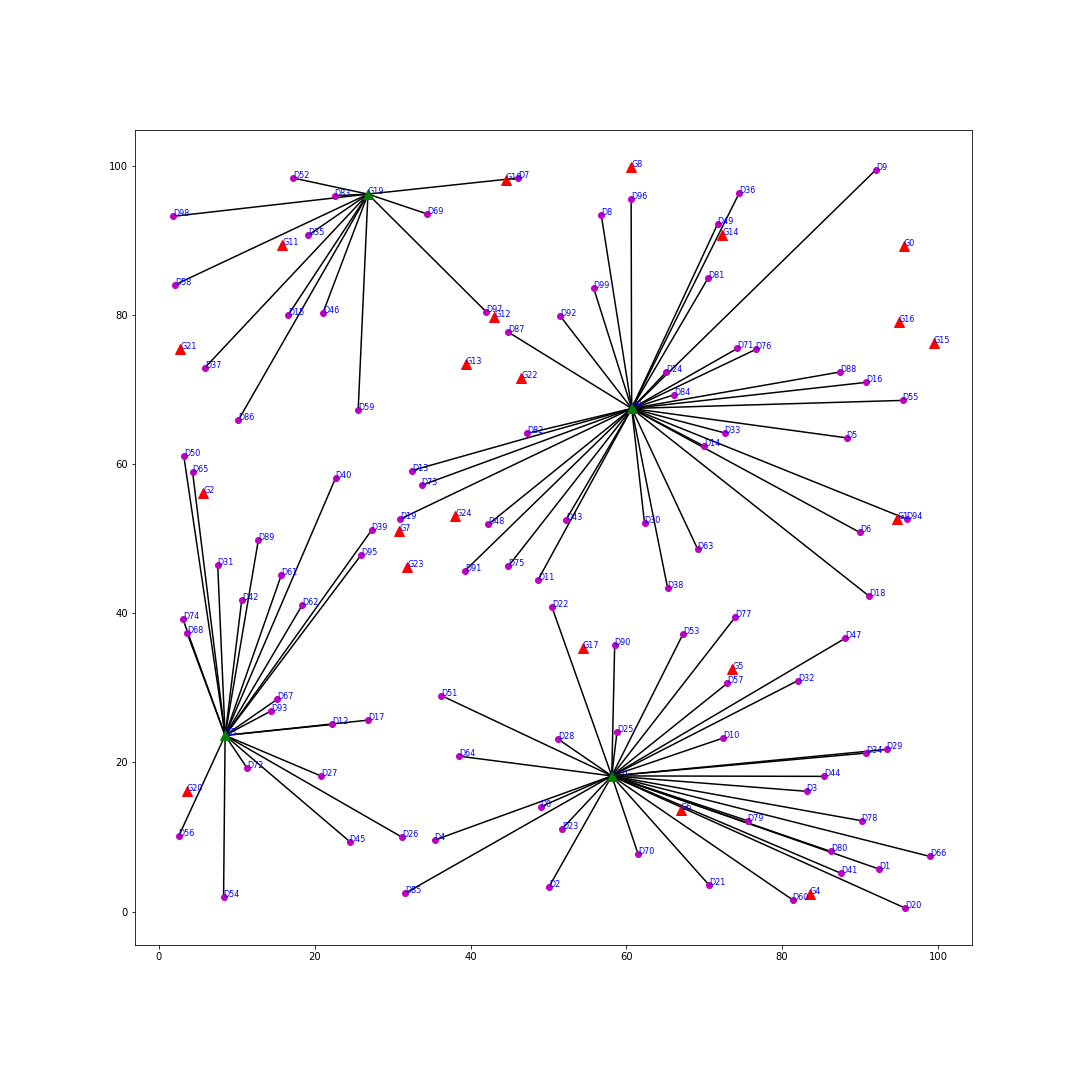
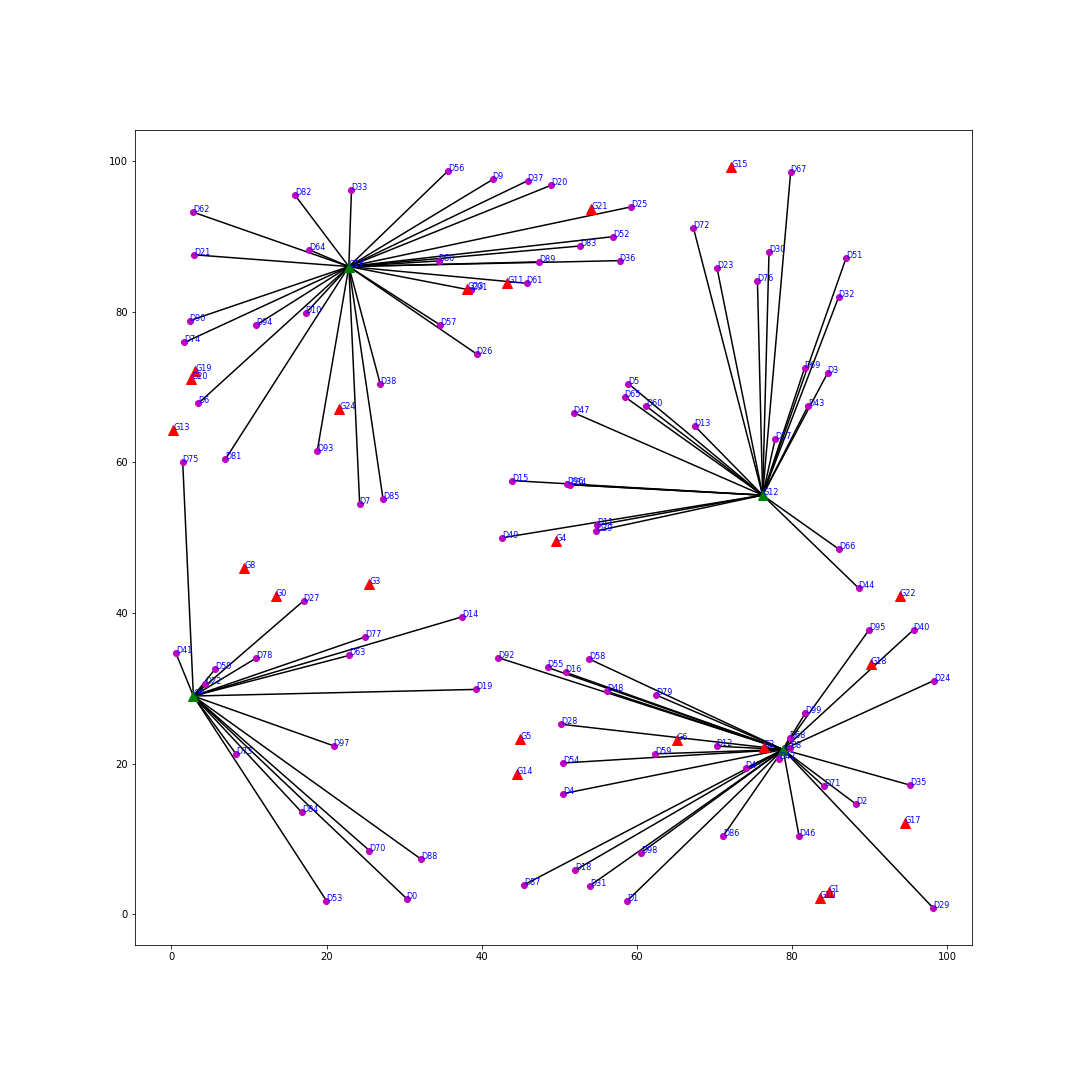
Algo final

diff --git a/TP2/local-search/solve with better print.py b/TP2/local-search/solve with better print.py
@@ -1,4 +1,5 @@
 import random
+import time
 from generator_problem import GeneratorProblem
 
 class Solve:
@@ -39,6 +40,10 @@ class Solve:
         print("[SOLUTION-COST]", total_cost)
         
     def solve_genetic(self):
+
+        print("Solve with a genetic algorithm")
+        print("The devices are associated to the closest generator", "\n")
+        tps1 = time.time()
         
         ### Declaration de constante
         pop_size = 50
@@ -48,10 +53,20 @@ class Solve:
         
         ### Initailisation de la population
         list_of_good_solutions = init_population(pop_size, self, proportion_retenue, nb_solution_gardée)
+        tps5 = time.time()
+        print("TEMPS ITERATION i = 0 : ", round(tps5 - tps1, 2), "\n")
         
         ### Evolution de la polulation
+        first_best_gen = 0
         for i in range(0, nb_generation_max):
+            old_solution_cost = list_of_good_solutions[0][1]
             list_of_good_solutions = next_generation(list_of_good_solutions, pop_size, nb_solution_gardée, self) 
+            if (old_solution_cost > list_of_good_solutions[0][1]):
+                first_best_gen = i+1
+            tps4 = time.time()
+            print("Best Solution :", list_of_good_solutions[0])
+            print("First generation with solution :", first_best_gen)
+            print("TEMPS ITERATION i =", i+1," : ", round(tps4 - tps1, 2), "\n")
         
         ### Association des machines aux générateurs pour la meilleur solution
         solution = list_of_good_solutions[0][0]
@@ -67,6 +82,8 @@ class Solve:
         
         ### Affichage de la meilleur solution
         self.instance.plot_solution(assigned_generators, solution)
+        tps2 = time.time()
+        print("TEMPS D'EXECUTION : ", round(tps2 - tps1, 2), "\n")
         print("[ASSIGNED-GENERATOR]", assigned_generators)
         print("[OPENED-GENERATOR]", solution)
         print("[SOLUTION-COST]", total_cost)

diff --git a/TP2/local-search/test betavariate.py b/TP2/local-search/test betavariate.py
@@ -1,11 +1,14 @@
 # import the required libraries 
 import random 
+import numpy
+import math
 import matplotlib.pyplot as plt 
 
 
 # store the random numbers in a 
 # list 
 nums = [] 
+nums2 = []
 bars = [0, 0, 0, 0, 0, 0, 0, 0, 0, 0, 0, 0, 0, 0, 0, 0, 0, 0, 0, 0, 0, 0, 0, 0, 0, 0, 0, 0, 0, 0, 0, 0, 0, 0, 0, 0, 0, 0, 0, 0]
 low = 10
 high = 100
@@ -21,8 +24,14 @@ for i in range(100):
     bars[i-1] += 1
 nums.sort()	
 
-print(nums[0])
-# plotting a graph
-plt.plot(nums) 
-#plt.plot(bars) 
-plt.show()
+for i in range (1000):
+    test = numpy.random.exponential(1)
+    print(round(test) + 1, round(math.exp(-test), 2))
+    nums2.append(test)
+nums2.sort()
+
+# print(nums[0])
+# # plotting a graph
+plt.plot(nums2) 
+# #plt.plot(bars) 
+# plt.show()

diff --git a/TP2/local-search/main.py b/TP2/local-search/main.py
@@ -10,10 +10,9 @@ def parse_arguments():
     # Instances parameters
     parser.add_argument('--n_generator', type=int, default=25) #default=25
     parser.add_argument('--n_device', type=int, default=100) #default=100
-    parser.add_argument('--seed', type=int, default=2) #default=1
+    parser.add_argument('--seed', type=int, default=1) #default=1
 
     return parser.parse_args()
-
 
 if __name__ == '__main__':
 
@@ -29,4 +28,4 @@ if __name__ == '__main__':
     solveur = Solve(args.n_generator, args.n_device, args.seed)
 
     #solveur.solve_naive()
-    solveur.solve_ls()
+    solveur.solve_genetic()
